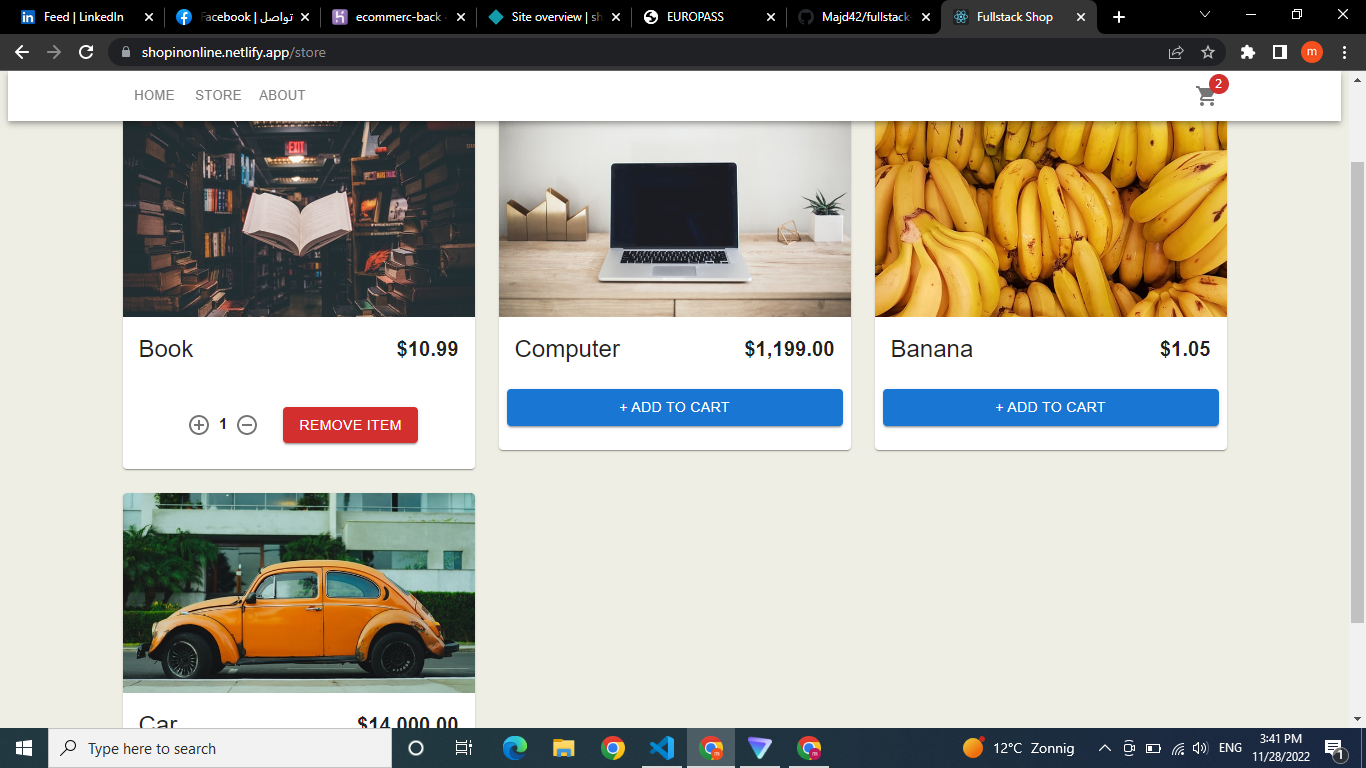
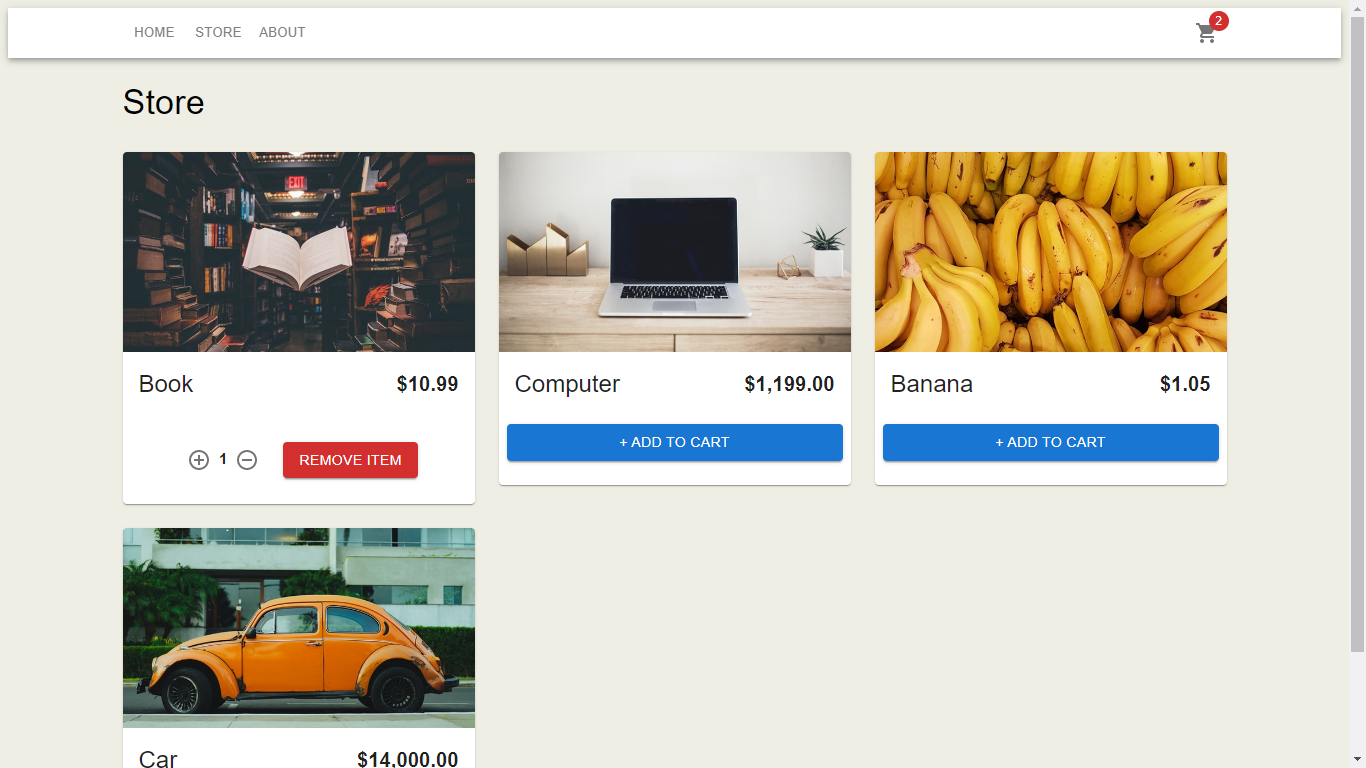
changing project img

diff --git a/src/App.js b/src/App.js
@@ -25,7 +25,7 @@ function App() {
       img: ecommerceImg,
       discription:'A Fullstack online Shop with a dynamic cart system and payment method to finalize your order.',
       technologies: 'React.js, MaterialUi, JSX, CSS, node.js, express.js',
-      url:'https://shopinonline.netlify.app/',
+      url:'https://shopinonline.netlify.app/store',
       git:'https://github.com/Majd42/fullstack-ecommerce',
     },
 
